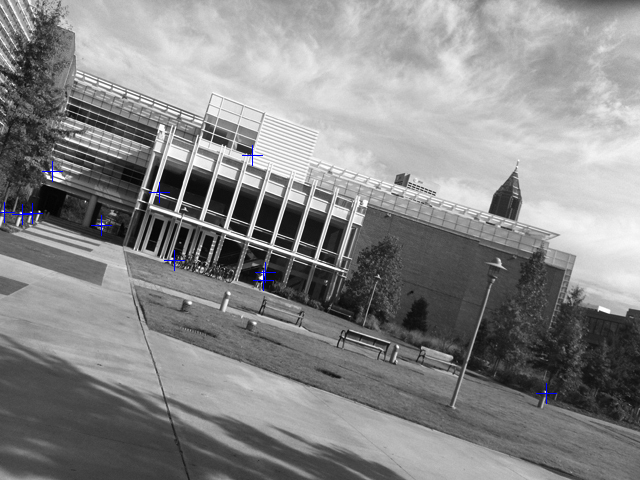
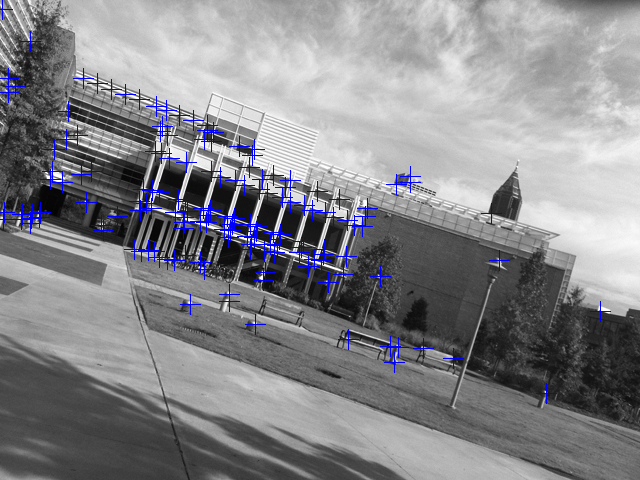
RANSAC in trans, sim, affine

diff --git a/ps4_python/ransac.py b/ps4_python/ransac.py
@@ -1,0 +1,108 @@
+import numpy as np
+import random
+import cv2
+
+
+# Note: Not choosing parameters N and T, Brute Approach require N=100
+def translation(line_pts, n_trials=100, tolerance=5):
+    s = 1
+    num_matches = len(line_pts)
+    best_consensus = np.array([])
+    best_tr = np.array([])
+    for i in range(n_trials):
+        rand_ind = random.sample(range(1, num_matches), s)
+        pts = line_pts[rand_ind][:s]
+
+        tr_mat = np.array([pts[0].x2 - pts[0].x1, pts[0].y2 - pts[0].y1], dtype=np.float64)
+
+        curr_consensus = []
+        for j in range(num_matches):
+            cmp_mat = np.array([line_pts[j].x2 - line_pts[j].x1, line_pts[j].y2 - line_pts[j].y1], dtype=np.float64)
+
+            if (abs(tr_mat[0] - cmp_mat[0]) < tolerance and abs(tr_mat[1] - cmp_mat[1]) < tolerance):
+                curr_consensus.append(j)
+
+        if len(curr_consensus) > len(best_consensus):
+            best_consensus = np.copy(curr_consensus)
+            best_tr = np.copy(tr_mat)
+
+    return best_tr, line_pts[best_consensus]
+
+
+def similarity(line_pts, n_trials=100, tolerance=5):
+    s = 2
+    num_matches = len(line_pts)
+    best_consensus = np.array([])
+    best_tr = np.array([])
+    for i in range(n_trials):
+        rand_ind = random.sample(range(1, num_matches), s)
+        pts = line_pts[rand_ind][:s]
+
+        j = 0
+        A = np.array([[pts[j].x1, -pts[j].y1, 1, 0],
+                      [pts[j].y1, pts[j].x1, 0, 1],
+                      [pts[j + 1].x1, -pts[j + 1].y1, 1, 0],
+                      [pts[j + 1].y1, pts[j + 1].x1, 0, 1]
+                      ])
+        b = np.array([pts[j].x2, pts[j].y2, pts[j + 1].x2, pts[j + 1].y2])
+        tr_mat, _, _, _ = np.linalg.lstsq(A, b)
+        tr_mat = np.array([[tr_mat[0], -tr_mat[1], tr_mat[2]],
+                           [tr_mat[1], tr_mat[0], tr_mat[3]]
+                           ])
+
+        curr_consensus = []
+        while j < (num_matches - 1):
+            A = np.array([[line_pts[j].x1, -line_pts[j].y1, 1, 0],
+                          [line_pts[j].y1, line_pts[j].x1, 0, 1],
+                          [line_pts[j + 1].x1, -line_pts[j + 1].y1, 1, 0],
+                          [line_pts[j + 1].y1, line_pts[j + 1].x1, 0, 1]
+                          ])
+            b = np.array([line_pts[j].x2, line_pts[j].y2, line_pts[j + 1].x2, line_pts[j + 1].y2])
+            cmp_mat, _, _, _ = np.linalg.lstsq(A, b)
+            cmp_mat = np.array([[cmp_mat[0], -cmp_mat[1], cmp_mat[2]],
+                                [cmp_mat[1], cmp_mat[0], cmp_mat[3]]
+                                ])
+            if (np.all(abs(cmp_mat - tr_mat) < tolerance) == True):
+                curr_consensus.append(j)
+                j += 1
+            j += 1
+
+        if len(curr_consensus) > len(best_consensus):
+            best_consensus = np.copy(curr_consensus)
+            best_tr = np.copy(tr_mat)
+
+    return best_tr, line_pts[best_consensus]
+
+
+def affine(line_pts, n_trials=100, tolerance=5):
+    s = 3
+    num_matches = len(line_pts)
+    best_consensus = np.array([])
+    best_tr = np.array([])
+    for i in range(n_trials):
+        rand_ind = random.sample(range(1, num_matches), s)
+        pts = line_pts[rand_ind][:s]
+
+        src = np.array([[pts[0].x1, pts[0].y1], [pts[1].x1, pts[1].y1], [pts[2].x1, pts[2].y1]], dtype=np.float32)
+        dest = np.array([[pts[0].x2, pts[0].y2], [pts[1].x2, pts[1].y2], [pts[2].x2, pts[2].y2]], dtype=np.float32)
+        tr_mat = cv2.getAffineTransform(src, dest)
+        j = 0
+        curr_consensus = []
+        while j < (num_matches-2):
+            src = np.array([[line_pts[j].x1, line_pts[j].y1], [line_pts[j + 1].x1, line_pts[j + 1].y1],
+                            [line_pts[j + 2].x1, line_pts[j + 2].y1]], dtype=np.float32)
+            dest = np.array([[line_pts[j].x2, line_pts[j].y2], [line_pts[j + 1].x2, line_pts[j + 1].y2],
+                             [line_pts[j + 2].x2, line_pts[j + 2].y2]], dtype=np.float32)
+            cmp_mat = cv2.getAffineTransform(src, dest)
+
+            if (np.all(abs(cmp_mat - tr_mat) < tolerance) == True):
+                curr_consensus.append(j)
+                curr_consensus.append(j + 1)
+                curr_consensus.append(j + 2)
+                j += 2
+            j += 1
+        if len(curr_consensus) > len(best_consensus):
+            best_consensus = np.copy(curr_consensus)
+            best_tr = np.copy(tr_mat)
+
+    return best_tr, line_pts[best_consensus]

diff --git a/ps4_python/ps4.py b/ps4_python/ps4.py
@@ -8,9 +8,16 @@ Created on Sat Apr 18 18:57:02 2020
 
 import numpy as np
 import cv2
-import matplotlib.pyplot as plt
+
+# User Modules
 import harris
 import sift
+import ransac
+
+transA = cv2.imread('input/transA.jpg', 0)
+transB = cv2.imread('input/transB.jpg', 0)
+simA = cv2.imread('input/simA.jpg', 0)
+simB = cv2.imread('input/simB.jpg', 0)
 
 
 class LinePoints:
@@ -21,13 +28,28 @@ class LinePoints:
         self.y2 = int(k2.pt[1])
 
 
+def generate_color_images():
+    transAC = cv2.cvtColor(transA, cv2.COLOR_GRAY2RGB)
+    transBC = cv2.cvtColor(transB, cv2.COLOR_GRAY2RGB)
+    simAC = cv2.cvtColor(simA, cv2.COLOR_GRAY2RGB)
+    simBC = cv2.cvtColor(simB, cv2.COLOR_GRAY2RGB)
+    transCol = transAC.copy()
+    transCol = np.append(transCol, transBC, axis=1)
+    simCol = simAC.copy()
+    simCol = np.append(simCol, simBC, axis=1)
+    return transCol, simCol
+
+
+def save_img(matches, name, img):
+    for l in matches:
+        cv2.drawMarker(img, (l.x1, l.y1), (255, 0, 0), cv2.MARKER_CROSS)
+        cv2.drawMarker(img, (l.x2, l.y2), (255, 0, 0), cv2.MARKER_CROSS)
+        cv2.line(img, (l.x1, l.y1), (l.x2, l.y2), color=(0, 255, 0), thickness=1)
+    cv2.imwrite(name, img)
+
+
 if __name__ == '__main__':
     # Problem 1
-    transA = cv2.imread('input/transA.jpg', 0)
-    transB = cv2.imread('input/transB.jpg', 0)
-    simA = cv2.imread('input/simA.jpg', 0)
-    simB = cv2.imread('input/simB.jpg', 0)
-
     transAX = cv2.Sobel(transA, cv2.CV_64F, 1, 0, ksize=5)
     transAY = cv2.Sobel(transA, cv2.CV_64F, 0, 1, ksize=5)
     transBX = cv2.Sobel(transB, cv2.CV_64F, 1, 0, ksize=5)
@@ -58,15 +80,10 @@ if __name__ == '__main__':
     cv2.imwrite('output/ps4-1-b-3.png', simAH)
     cv2.imwrite('output/ps4-1-b-4.png', simBH)
 
-    transAH = harris.harris_values(transA, norm=False)
-    transBH = harris.harris_values(transB, norm=False)
-    simAH = harris.harris_values(simA, norm=False)
-    simBH = harris.harris_values(simB, norm=False)
-
-    ctA = harris.harris_corners(transAH)
-    ctB = harris.harris_corners(transBH)
-    csA = harris.harris_corners(simAH)
-    csB = harris.harris_corners(simBH)
+    ctA = harris.harris_corners(transAH, threshold=160)
+    ctB = harris.harris_corners(transBH, threshold=159)
+    csA = harris.harris_corners(simAH, threshold=150)
+    csB = harris.harris_corners(simBH, threshold=137)
 
     transAC = cv2.cvtColor(transA, cv2.COLOR_GRAY2RGB)
     transBC = cv2.cvtColor(transB, cv2.COLOR_GRAY2RGB)
@@ -114,7 +131,7 @@ if __name__ == '__main__':
     cv2.drawKeypoints(transAC, kp1, transAC, flags=cv2.DRAW_MATCHES_FLAGS_DRAW_RICH_KEYPOINTS)
     cv2.drawKeypoints(transBC, kp2, transBC, flags=cv2.DRAW_MATCHES_FLAGS_DRAW_RICH_KEYPOINTS)
     cv2.drawKeypoints(simAC, kp3, simAC, flags=cv2.DRAW_MATCHES_FLAGS_DRAW_RICH_KEYPOINTS)
-    cv2.drawKeypoints(simAC, kp4, simBC, flags=cv2.DRAW_MATCHES_FLAGS_DRAW_RICH_KEYPOINTS)
+    cv2.drawKeypoints(simBC, kp4, simBC, flags=cv2.DRAW_MATCHES_FLAGS_DRAW_RICH_KEYPOINTS)
 
     transCol = transAC.copy()
     transCol = np.append(transCol, transBC, axis=1)
@@ -154,3 +171,13 @@ if __name__ == '__main__':
     cv2.imwrite('output/ps4-2-b-2.png', simCol)
 
     # Problem 3
+    transCol, simCol = generate_color_images()
+    _, in_matches = ransac.translation(np.array(line1), tolerance=10)
+    save_img(in_matches, 'output/ps4-3-a-1.png', transCol)
+
+    _, in_matches = ransac.similarity(np.array(line2), tolerance=5)
+    save_img(in_matches, 'output/ps4-3-b-1.png', simCol)
+
+    _, simCol = generate_color_images()
+    _, in_matches = ransac.affine(np.array(line2), tolerance=2)
+    save_img(in_matches, 'output/ps4-3-c-1.png', simCol)

diff --git a/ps4_python/harris.py b/ps4_python/harris.py
@@ -1,65 +1,67 @@
 import numpy as np
 import cv2
 
+
 def harris_values(img, alpha=0.05, w_size=5, norm=True):
     Ix = cv2.Sobel(img, cv2.CV_64F, 1, 0, ksize=5)
     Iy = cv2.Sobel(img, cv2.CV_64F, 0, 1, ksize=5)
-    
+
     Ixx = cv2.multiply(Ix, Ix)
     Iyy = cv2.multiply(Iy, Iy)
     Ixy = cv2.multiply(Ix, Iy)
     Iyx = cv2.multiply(Iy, Ix)
-    
+
     Hres = np.zeros(img.shape, dtype=np.float64)
     h, w = img.shape
-    st = w_size//2
-    for r in range(st, h-st):
-        minr = r-st
-        maxr = minr+st
-        for c in range(st, w-st):
-            minc = c-st
-            maxc = minc+st
+    st = w_size // 2
+    for r in range(st, h - st):
+        minr = r - st
+        maxr = minr + st
+        for c in range(st, w - st):
+            minc = c - st
+            maxc = minc + st
             wIxx = Ixx[minr:maxr, minc:maxc]
             wIxy = Ixy[minr:maxr, minc:maxc]
             wIyx = Iyx[minr:maxr, minc:maxc]
             wIyy = Iyy[minr:maxr, minc:maxc]
-            
+
             MIxx = cv2.GaussianBlur(wIxx, (w_size, w_size), 0).sum()
             MIxy = cv2.GaussianBlur(wIxy, (w_size, w_size), 0).sum()
             MIyy = cv2.GaussianBlur(wIyy, (w_size, w_size), 0).sum()
             MIyx = cv2.GaussianBlur(wIyx, (w_size, w_size), 0).sum()
-            
-            M = np.array([MIxx, MIxy, MIyx, MIyy]).reshape((2,2))
-            Hres[r,c] = np.linalg.det(M) - alpha*(M.trace()**2)
-    
-    if(norm==True):
+
+            M = np.array([MIxx, MIxy, MIyx, MIyy]).reshape((2, 2))
+            Hres[r, c] = np.linalg.det(M) - alpha * (M.trace() ** 2)
+
+    if (norm == True):
         Hres = cv2.normalize(Hres, Hres, alpha=0, beta=255, norm_type=cv2.NORM_MINMAX, dtype=cv2.CV_8U)
     return Hres
 
+
 def harris_corners(H1, threshold=None, hoodSize=None):
     H = H1.copy()
-    if(hoodSize == None):
-        hoodSize = np.array(H.shape)//50 + 1 # 2%
-    if(threshold == None):
-        threshold = 0.3 * np.max(H)
-        
+    if (hoodSize == None):
+        hoodSize = np.array(H.shape) // 50 + 1  # 2%
+    if (threshold == None):
+        threshold = 0.5 * np.max(H)
+
     h, w = H.shape
     hoodY, hoodX = hoodSize
     corners = []
-    
-    while(True):
+
+    while (True):
         max_val = np.max(H)
-        if(max_val<threshold):
+        if (max_val < threshold):
             break
         pos = np.unravel_index(H.argmax(), H.shape)
         x = pos[1]
         y = pos[0]
         corners.append([x, y])
-        stx = max(0,x-hoodX//2)
-        endx = min(w, x+hoodX//2)
-        sty = max(0,y-hoodY//2)
-        endy = min(h, y+hoodY//2)
-        
+        stx = max(0, x - hoodX // 2)
+        endx = min(w, x + hoodX // 2)
+        sty = max(0, y - hoodY // 2)
+        endy = min(h, y + hoodY // 2)
+
         H[sty:endy, stx:endx] = 0
-        
+
     return corners

diff --git a/ps4_python/sift.py b/ps4_python/sift.py
@@ -1,5 +1,4 @@
 import cv2
-import numpy as np
 
 
 def compute(I, kp):
